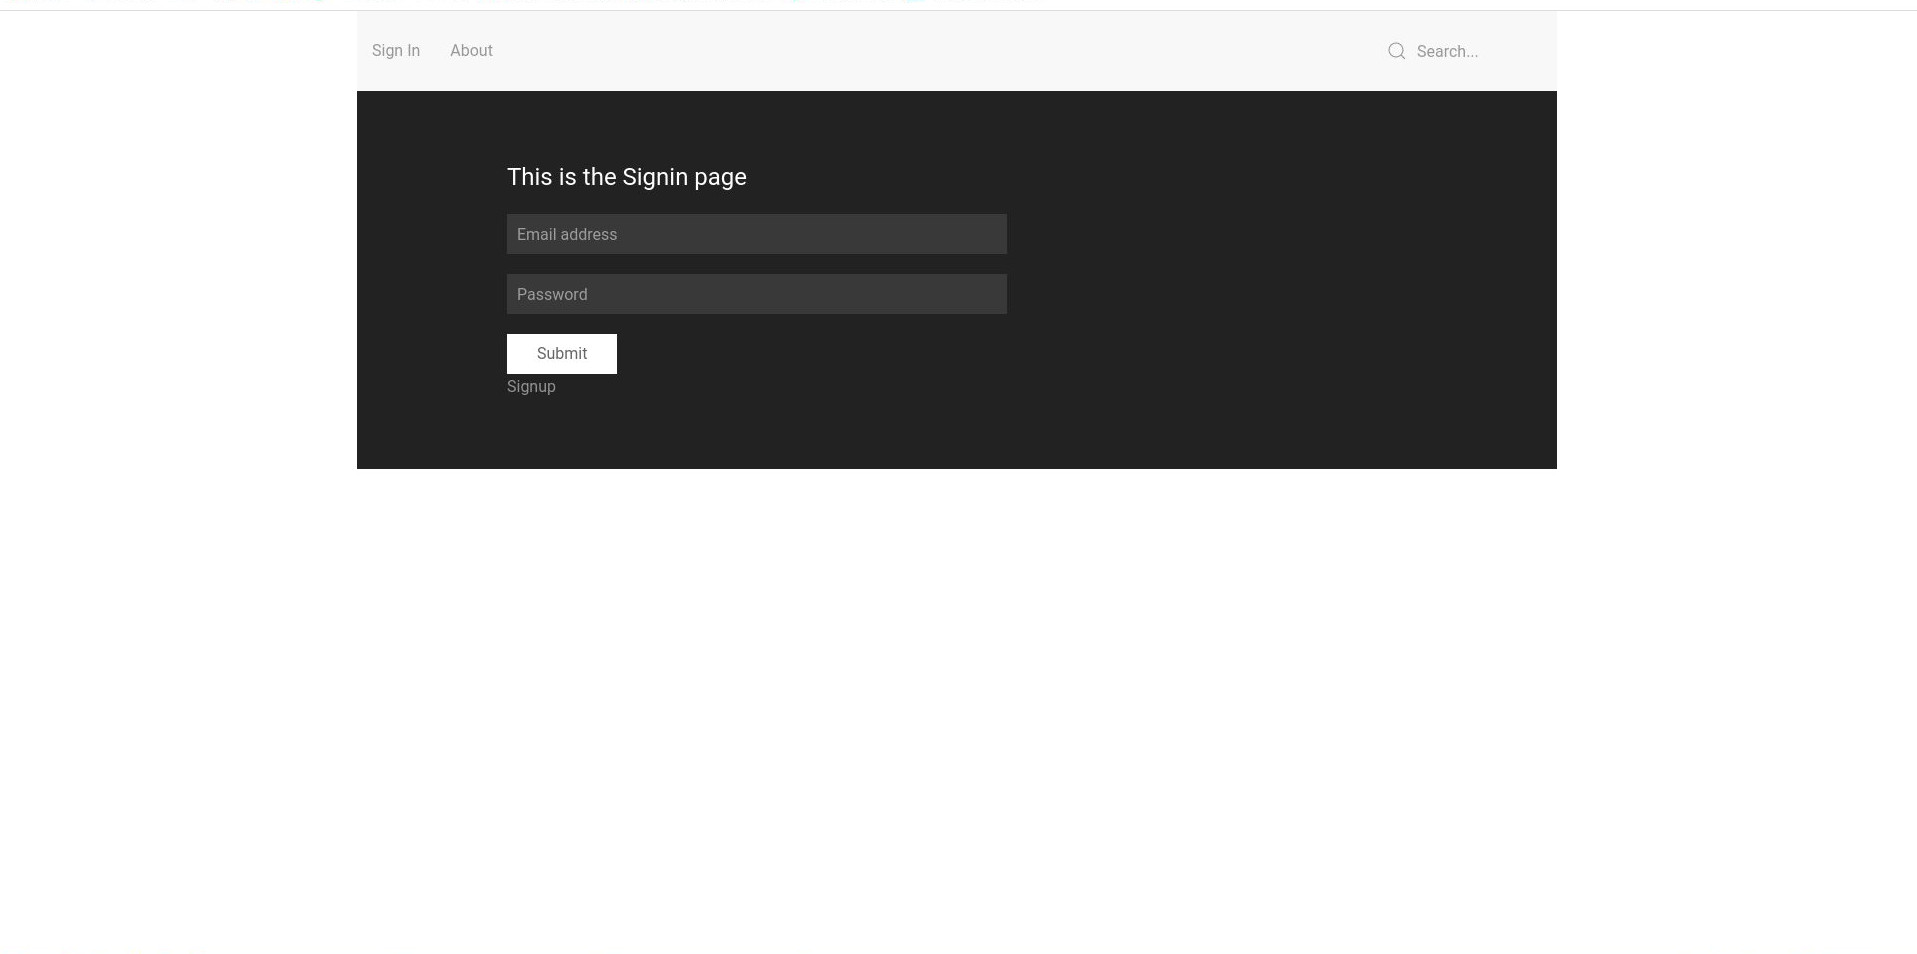
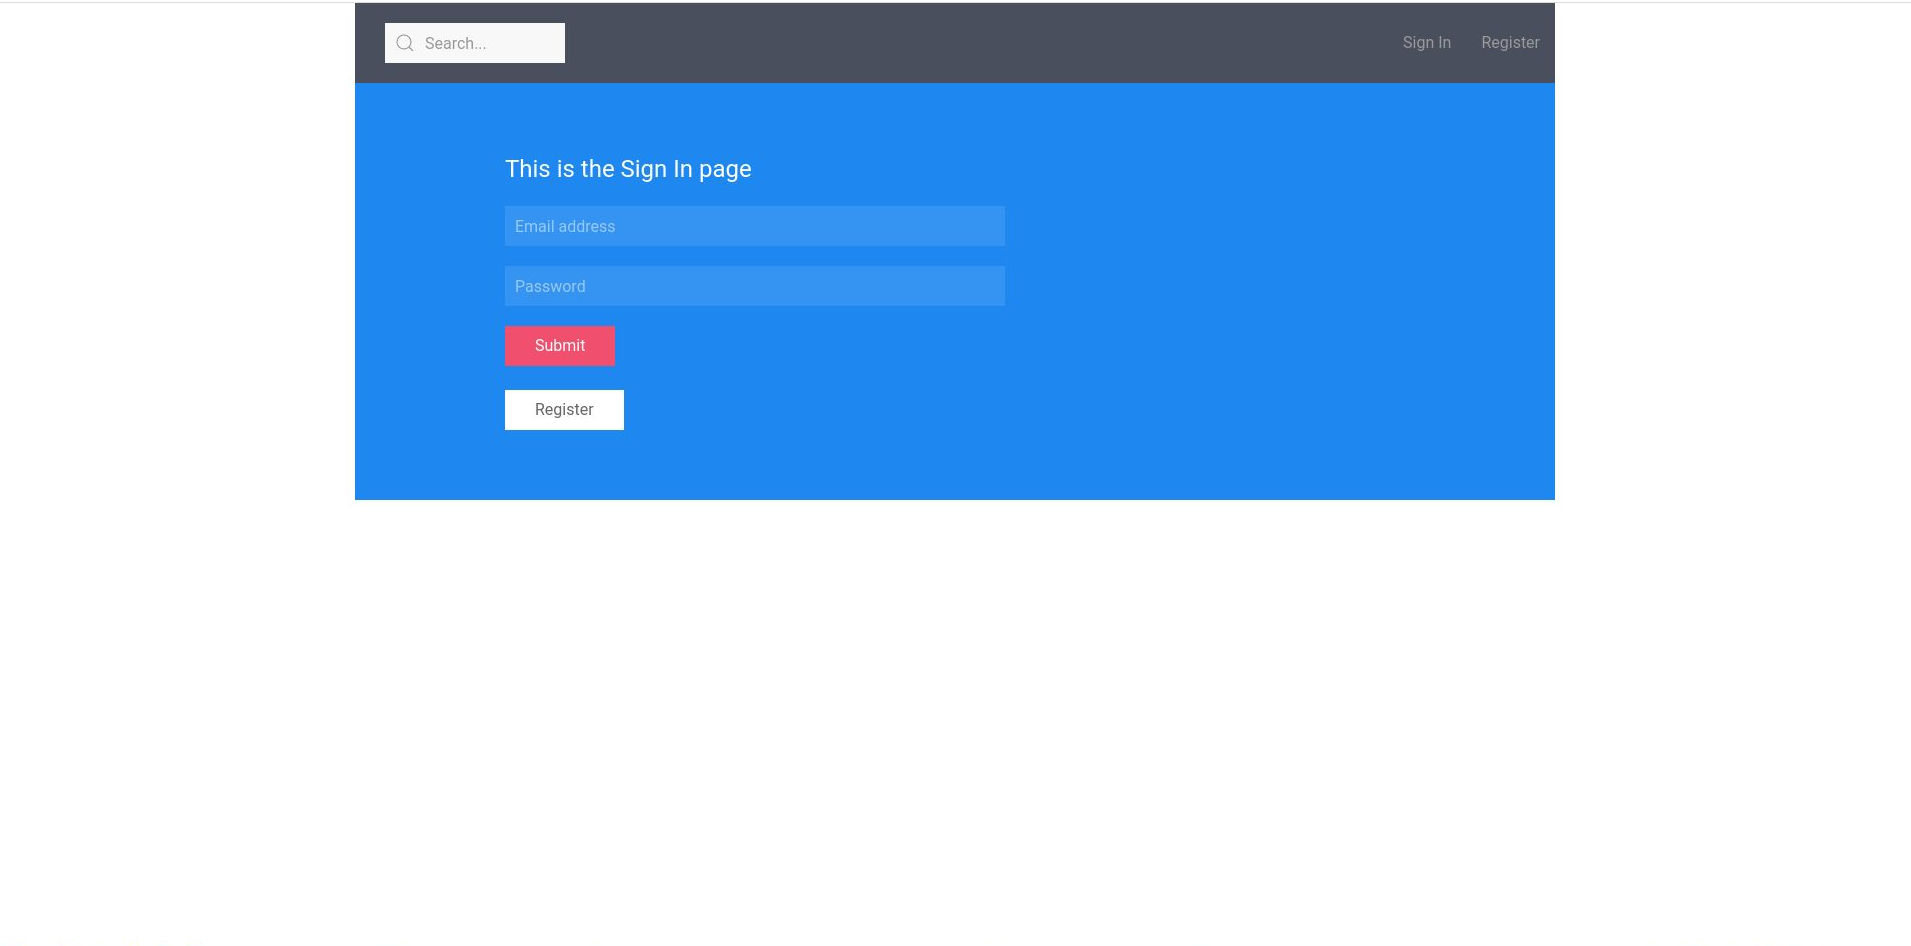
Edit

diff --git a/recordstore-front/src/views/Header.vue b/recordstore-front/src/views/Header.vue
@@ -1,19 +1,7 @@
 <template>
-  <nav class="uk-navbar-container" uk-navbar="boundary-align: true; align: center;">
+  <nav id="navbar" class="uk-navbar-container" uk-navbar="boundary-align: true; align: center;">
     <div class="uk-navbar-left">
-    <ul class="uk-navbar-nav">
-    <li>
-    <router-link to="/" class="uk-navbar-item uk-logo"> Sign In</router-link>
-    </li>
-         <li>
-         <router-link to="/about" class="uk-navbar-item">About</router-link>
-    </li>
-           
-        </ul>
-    </div>
-
-    <div class="uk-navbar-right">
-        <ul class="uk-navbar-nav">
+     <ul class="uk-navbar-nav">
             <li>
             <form class="uk-search uk-search-default">
     <span uk-search-icon></span>
@@ -23,7 +11,30 @@
              
      </li>
         </ul>
+   
+    </div>
+
+    <div class="uk-navbar-right">
+      <ul class="uk-navbar-nav">
+    <li>
+    <router-link to="/" class="uk-navbar-item uk-logo"> Sign In</router-link>
+    </li>
+         <li>
+         <router-link to="/signup" class="uk-navbar-item">Register</router-link>
+    </li>
+           
+        </ul> 
     </div>
 </nav>
 </div>
 </template>
+
+<style scoped>
+#navbar {
+background: #494f5d;
+}
+form.uk-search {
+margin-left: 30px;
+}
+
+</style>

diff --git a/recordstore-front/src/views/Signin.vue b/recordstore-front/src/views/Signin.vue
@@ -1,18 +1,19 @@
 <template>
-<div class="uk-section uk-section-secondary">
+<div class="uk-section uk-section-primary">
 <div class="uk-container uk-container-small">
-<h3>This is the Signin page</h3>
+<h3>Sign In</h3>
 <form @submit.prevent="signin">
 <div v-if="error">{{error}}</div>
  <div class="uk-margin">
-    <input type="email" v-model="email" class="uk-input uk-form-width-large" placeholder="Email address">
+<input type="email" v-model="email" class="uk-input uk-form-width-large" placeholder="Email address">
 </div>
  <div class="uk-margin">
-    <input type="password" v-model="password" class="uk-input uk-form-width-large" placeholder="Password">
+<input type="password" v-model="password" class="uk-input uk-form-width-large" placeholder="Password">
 </div>
-<button type="submit" class="uk-button uk-button-primary uk-button-medium">Submit</button>
+<button type="submit" class="uk-button uk-button-danger">Sign In</button>
 <div>
-<router-link to="/signup" class="uk-button uk-button-link">Signup</router-link>
+<br />
+<router-link to="/signup" class="uk-button uk-button-secondary">Register</router-link>
 </div>
 </form>
 </div>

diff --git a/recordstore-front/src/views/Signup.vue b/recordstore-front/src/views/Signup.vue
@@ -1,7 +1,7 @@
 <template>
-<div class="uk-section uk-section-secondary">
+<div class="uk-section uk-section-primary">
 <div class="uk-container uk-container-small">
-<h3>This is the Signup page</h3>
+<h3>Register</h3>
 <form @submit.prevent="signup">
 <div v-if="error">{{error}}</div>
  <div class="uk-margin">
@@ -10,9 +10,15 @@
  <div class="uk-margin">
     <input type="password" v-model="password" class="uk-input uk-form-width-large" placeholder="Password">
 </div>
-<button type="submit" class="uk-button uk-button-primary uk-button-medium">Submit</button>
+ <div class="uk-margin">
+  <input type="password" v-model="password_confirmation" class="uk-input uk-form-width-large" id="password_confirmation" placeholder="Password Confirmation">
+</div>
+<div class="uk-margin">
+<button type="submit" class="uk-button uk-button-danger">Register</button>
+</div>
 <div>
-<router-link to="/signup" class="uk-button uk-button-link">Signup</router-link>
+<br />
+<router-link to="/signin" class="uk-button uk-button-secondary">Sign In</router-link>
 </div>
 </form>
 </div>

diff --git a/recordstore-front/src/router/index.js b/recordstore-front/src/router/index.js
@@ -11,12 +11,12 @@ const routes = [
     component: Signin
   },
   {
-    path: '/about',
-    name: 'About',
+    path: '/signup',
+    name: 'Signup',
     // route level code-splitting
     // this generates a separate chunk (about.[hash].js) for this route
     // which is lazy-loaded when the route is visited.
-    component: () => import(/* webpackChunkName: "about" */ '../views/About.vue')
+    component: () => import(/* webpackChunkName: "about" */ '../views/Signup.vue')
   }
 ]
 
